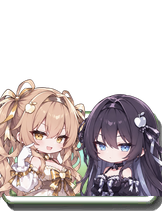
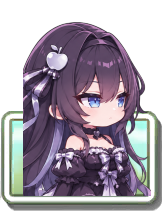
Iris Shooter: new single-character art (Iois) with Spine-style idle, raise/scan/fire sheets, aimed floating cannon and violet laser
Character baked from a bone-rig (LBS) at 12 fps; cannon pre-rendered at 9 aim angles; laser drawn as slanted band.

Claude-Session: https://claude.ai/code/session_01DP6fg3ECMqpTnPv5WHtp6y

diff --git a/src/LawnShared/Lawn/Plant.cs b/src/LawnShared/Lawn/Plant.cs
@@ -110,6 +110,8 @@ public class Plant : GameObject
 
 	public int mIrisFlashCounter;
 
+	public int mIrisEngage;
+
 	public int mTargetZombieID_Save;
 
 	private int mTargetZombieIDSaved;
@@ -328,6 +330,7 @@ public class Plant : GameObject
 		mIrisTickCounter = 0;
 		mIrisUnlocked = false;
 		mIrisFlashCounter = 0;
+		mIrisEngage = 0;
 		mWakeUpCounter = 0;
 		mOnBungeeState = PlantOnBungeeState.NotOnBungee;
 		mImitaterType = SeedType.Peashooter;
@@ -3081,6 +3084,15 @@ public class Plant : GameObject
 		{
 			mIrisFlashCounter--;
 		}
+		// arm raise / lower blend (0..IRIS_ENGAGE_TIME) drives the raise animation and the cannon glide
+		if (mTargetZombieID != null && !mTargetZombieID.IsDeadOrDying())
+		{
+			mIrisEngage = Math.Min(IRIS_ENGAGE_TIME, mIrisEngage + 1);
+		}
+		else
+		{
+			mIrisEngage = Math.Max(0, mIrisEngage - 1);
+		}
 		if (NotOnGround() || mState == PlantState.Dying || mSquished)
 		{
 			return;
@@ -3121,25 +3133,91 @@ public class Plant : GameObject
 		}
 	}
 
-	/// <summary>Battlefield sprite (Content/iris/iris_body.png) with a gentle breathing squash.</summary>
+	public const int IRIS_ENGAGE_TIME = 50;
+
+	private int IrisCounter()
+	{
+		return (IsOnBoard() ? mBoard.mMainCounter : mApp.mAppCounter) + mRow * 53 + mPlantCol * 37;
+	}
+
+	/// <summary>Where the cannon is aiming (board units, plant-relative) and which pre-rendered angle to show.</summary>
+	private void IrisAim(float theHeightOffset, out Vector2 theCenter, out int theIndex, out Vector2 theAimPoint)
+	{
+		float engage = (float)mIrisEngage / (float)IRIS_ENGAGE_TIME;
+		theCenter = IrisArt.CannonCenter(IrisCounter(), engage, theHeightOffset);
+		if (mIrisUnlocked && mIrisTickCounter < 8)
+		{
+			theCenter.X -= 2.5f * (1f - (float)mIrisTickCounter / 8f);     // recoil on each laser tick
+		}
+		Zombie target = mTargetZombieID;
+		theAimPoint = new Vector2(theCenter.X + 100f, theCenter.Y);
+		if (target != null && !target.IsDeadOrDying() && engage > 0f)
+		{
+			TRect rect = target.GetZombieRect();
+			float faceX = (float)rect.mX + (float)rect.mWidth * 0.5f - (float)mX;
+			float faceY = (float)rect.mY + (float)rect.mHeight * 0.22f - (float)mY + theHeightOffset;
+			if (!mIrisUnlocked)
+			{
+				// sweep the scan up and down the zombie, two passes per scan
+				float sweep = 0.5f - 0.5f * (float)Math.Cos((float)mIrisScanCounter * Math.PI * 4.0 / (float)IRIS_SCAN_TIME);
+				faceY = (float)rect.mY - (float)mY + theHeightOffset + (float)rect.mHeight * (0.08f + 0.84f * sweep);
+			}
+			Vector2 face = new Vector2(faceX, faceY);
+			theAimPoint = Vector2.Lerp(theAimPoint, face, engage);
+		}
+		float deg = MathHelper.ToDegrees((float)Math.Atan2(theAimPoint.Y - theCenter.Y, Math.Max(1f, theAimPoint.X - theCenter.X)));
+		theIndex = IrisArt.AngleIndex(deg);
+	}
+
+	/// <summary>Iois (pre-baked rig) + floating apple cannon.</summary>
 	public void DrawIrisShooterBody(Graphics g, float theOffsetX, float theOffsetY)
 	{
-		int counter = (IsOnBoard() ? mBoard.mMainCounter : mApp.mAppCounter) + mRow * 53 + mPlantCol * 37;
-		float breath = (float)Math.Sin((float)counter * 0.045f) * 0.012f;
+		int counter = IrisCounter();
+		int f12 = counter * IrisArt.FPS / 100;
+		Image sheet;
+		int frame;
+		if (mIrisEngage <= 0)
+		{
+			sheet = IrisArt.Idle;
+			frame = f12 % IrisArt.IDLE_FRAMES;
+		}
+		else if (mIrisEngage < IRIS_ENGAGE_TIME)
+		{
+			sheet = IrisArt.Raise;
+			frame = Math.Clamp(mIrisEngage * IrisArt.RAISE_FRAMES / IRIS_ENGAGE_TIME, 0, IrisArt.RAISE_FRAMES - 1);
+		}
+		else if (mIrisUnlocked && mIrisFlashCounter > 26 && IrisArt.Wink != null)
+		{
+			sheet = IrisArt.Wink;
+			frame = 0;
+		}
+		else
+		{
+			sheet = mIrisUnlocked ? IrisArt.FireLoop : IrisArt.ScanLoop;
+			frame = f12 % IrisArt.LOOP_FRAMES;
+		}
 		bool colorize = g.GetColorizeImages();
 		if (mEatenFlashCountdown > 0 || mBeghouledFlashCountdown > 0)
 		{
 			g.SetColorizeImages(colorizeImages: true);
 			g.SetColor(new SexyColor(255, 200, 200, 255));
 		}
-		IrisArt.DrawBody(g, theOffsetX * Constants.S, theOffsetY * Constants.S, 1f, breath);
+		float ox = theOffsetX * Constants.S;
+		float oy = theOffsetY * Constants.S;
+		IrisArt.DrawCharacter(g, sheet, frame, ox, oy, 1f);
+		IrisAim(0f, out Vector2 center, out int index, out _);
+		IrisArt.DrawCannon(g, center, index, ox, oy);
 		g.SetColor(new SexyColor(255, 255, 255, 255));
 		g.SetColorizeImages(colorize);
 	}
 
-	/// <summary>Scan fan + red lock while scanning; golden laser, muzzle, hit spark and green lock once unlocked.</summary>
+	/// <summary>Red scan fan + lock while scanning; violet laser from the cannon, hit spark and green lock once unlocked.</summary>
 	public void DrawIrisShooterEffectsArt(Graphics g, Zombie target)
 	{
+		if (mIrisEngage < IRIS_ENGAGE_TIME)
+		{
+			return;
+		}
 		float s = Constants.S;
 		float heightOffset = PlantDrawHeightOffset(mBoard, this, mSeedType, mPlantCol, mRow);
 		TRect rect = target.GetZombieRect();
@@ -3149,42 +3227,32 @@ public class Plant : GameObject
 		int counter = mBoard.mMainCounter;
 		float pulse = 0.5f + 0.5f * (float)Math.Sin((float)counter * 0.3f);
 		bool colorize = g.GetColorizeImages();
+		IrisAim(heightOffset, out Vector2 center, out int index, out Vector2 aim);
+		Vector2 mz = IrisArt.MuzzleAt(center, index) * s;
+		Vector2 aimPx = aim * s;
 		if (!mIrisUnlocked)
 		{
-			Vector2 so = IrisArt.Anchor(IrisArt.ScanOrigin, heightOffset) * s;
-			float len = faceCX - so.X;
-			if (len > 4f && IrisArt.Scan != null)
+			if (IrisArt.Scan != null && aimPx.X - mz.X > 4f)
 			{
-				float h = Math.Max(side * 1.3f, Math.Abs(faceCY - so.Y) * 2f + side * 0.8f);
+				float h = side * 1.1f;
 				g.SetColorizeImages(colorizeImages: true);
 				g.SetColor(new SexyColor(255, 255, 255, (int)(150f + 60f * pulse)));
-				g.DrawImage(IrisArt.Scan, new TRect((int)(so.X - h * 0.025f), (int)(so.Y - h * 0.52f), (int)(len + side * 0.5f), (int)h), new TRect(0, 0, IrisArt.Scan.mWidth, IrisArt.Scan.mHeight));
+				float fanH = Math.Abs(aimPx.Y - mz.Y) * 2f + h;
+				g.DrawImage(IrisArt.Scan, new TRect((int)mz.X, (int)(mz.Y - fanH * 0.52f), (int)(aimPx.X - mz.X + side * 0.3f), (int)fanH), new TRect(0, 0, IrisArt.Scan.mWidth, IrisArt.Scan.mHeight));
+				g.SetColor(new SexyColor(255, 60, 80, 220));
+				g.FillRect((int)(faceCX - side * 0.6f), (int)aimPx.Y, (int)(side * 1.2f), (int)Math.Max(1f, 1.5f * s));
 			}
 			IrisArt.DrawCentered(g, IrisArt.LockRed, faceCX, faceCY, side, side, 230);
-			int scanTime = (IrisFaceHidden(target) ? IRIS_SCAN_TIME_OBSTRUCTED : IRIS_SCAN_TIME);
-			float progress = Math.Clamp((float)mIrisScanCounter / (float)scanTime, 0f, 1f);
-			g.SetColor(new SexyColor(255, 140, 140, 220));
-			g.FillRect((int)(faceCX - side * 0.4f), (int)(faceCY - side * 0.4f + side * 0.8f * progress), (int)(side * 0.8f), (int)Math.Max(1f, 1.5f * s));
 		}
 		else
 		{
-			Vector2 lo = IrisArt.Anchor(IrisArt.LaserOrigin, heightOffset) * s;
-			float hitX = ((float)rect.mX + (float)rect.mWidth * 0.3f - (float)mX) * s;
-			float len = hitX - lo.X;
-			if (len > 0f && IrisArt.Beam != null)
-			{
-				float bh = (16f + 3f * pulse) * s;
-				g.SetColorizeImages(colorizeImages: true);
-				g.SetColor(new SexyColor(255, 255, 255, 255));
-				g.DrawImage(IrisArt.Beam, new TRect((int)lo.X, (int)(lo.Y - bh / 2f), (int)len, (int)bh), new TRect(0, 0, IrisArt.Beam.mWidth, IrisArt.Beam.mHeight));
-			}
-			float m = (26f + 4f * pulse) * s;
-			IrisArt.DrawCentered(g, IrisArt.Muzzle, lo.X, lo.Y, m * 1.3f, m, 255);
-			if (len > 0f)
-			{
-				float hs = (24f + 8f * (float)((counter / 3) % 2)) * s;
-				IrisArt.DrawCentered(g, IrisArt.Hit, hitX, lo.Y, hs * 1.4f, hs, 255);
-			}
+			Vector2 hit = new Vector2(faceCX - side * 0.15f, aimPx.Y);
+			float bh = (14f + 3f * pulse) * s;
+			IrisArt.DrawBand(g, IrisArt.Beam, mz, hit, bh, 255);
+			float m = (22f + 4f * pulse) * s;
+			IrisArt.DrawCentered(g, IrisArt.Muzzle, mz.X, mz.Y, m * 1.3f, m, 255);
+			float hs = (22f + 8f * (float)((counter / 3) % 2)) * s;
+			IrisArt.DrawCentered(g, IrisArt.Hit, hit.X, hit.Y, hs * 1.4f, hs, 255);
 			IrisArt.DrawCentered(g, IrisArt.LockGreen, faceCX, faceCY, side, side, 240);
 			if (mIrisFlashCounter > 0)
 			{
@@ -4312,7 +4380,9 @@ public class Plant : GameObject
 		}
 		else if (seedType == SeedType.IrisShooter && IrisArt.Ready)
 		{
-			IrisArt.DrawBody(g, thePosX - 40f * Constants.S * g.mScaleX, thePosY - (8f + 56f * Constants.S) * g.mScaleY, g.mScaleX, 0f);
+			float irisOx = thePosX - 40f * Constants.S * g.mScaleX;
+			float irisOy = thePosY - (8f + 56f * Constants.S) * g.mScaleY;
+			IrisArt.DrawCharacter(g, IrisArt.Idle, 0, irisOx, irisOy, g.mScaleX);
 		}
 		else
 		{

diff --git a/src/LawnShared/Lawn/IrisArt.cs b/src/LawnShared/Lawn/IrisArt.cs
@@ -7,25 +7,61 @@ using Sexy;
 namespace Lawn;
 
 /// <summary>
-/// iOS-port original plant art for the Iris Shooter, loaded from raw PNGs in Content/iris on first use.
+/// iOS-port original plant art (Iris Shooter = "Iois" + floating apple cannon), loaded from raw PNGs in Content/iris.
+/// The character is pre-baked from a Spine-style rig into sprite sheets (idle / raise / scan / fire / wink, 12 fps);
+/// the cannon and all laser effects are drawn live so they can aim at the target.
 /// Every image is optional: callers fall back to the prototype look when one is missing.
 /// </summary>
 public static class IrisArt
 {
-	// Battlefield sprite layout (iris_body.png is 420x420): drawn IRIS_SIZE board units square,
-	// feet on board y = plant y + IRIS_FEET_Y, centred on the cell.
-	public const float SIZE = 100f;
+	// ---- character sheets (frame 185x260 px, 8 columns) ----
+	public const int FRAME_W = 185;
 
-	public const float FEET_Y = 72f;
+	public const int FRAME_H = 260;
 
-	public const float FEET_IN_IMAGE = 414f / 420f;
+	public const int COLS = 8;
 
-	// Hair-ornament anchors inside the sprite, as fractions of the image.
-	public static readonly Vector2 LaserOrigin = new Vector2(296f / 420f, 108f / 420f);
+	public const int FPS = 12;
 
-	public static readonly Vector2 ScanOrigin = new Vector2(148f / 420f, 74f / 420f);
+	public const int IDLE_FRAMES = 31;
 
-	public static Image Body;
+	public const int RAISE_FRAMES = 6;
+
+	public const int LOOP_FRAMES = 30;
+
+	private const float FEET_IN_FRAME_X = 77.4f;
+
+	private const float FEET_IN_FRAME_Y = 257.9f;
+
+	/// <summary>Character height in board units and where her feet stand inside the 80-wide cell.</summary>
+	public const float HEIGHT = 102f;
+
+	public const float FEET_X = 38f;
+
+	public const float FEET_Y = 78f;
+
+	// ---- cannon sheet: 9 aim angles (-20..+20 deg, 5 deg steps), 200x200 frames ----
+	public const int CANNON_FRAME = 200;
+
+	public const int CANNON_ANGLES = 9;
+
+	public const float CANNON_SIZE = 44f;
+
+	private static readonly float[] sMuzzleX = { 166.1f, 168.2f, 169.9f, 171.0f, 171.6f, 171.6f, 171.1f, 170.0f, 168.4f };
+
+	private static readonly float[] sMuzzleY = { 72.3f, 78.2f, 84.2f, 90.4f, 96.6f, 102.8f, 109.1f, 115.2f, 121.3f };
+
+	public static Image Idle;
+
+	public static Image Raise;
+
+	public static Image ScanLoop;
+
+	public static Image FireLoop;
+
+	public static Image Wink;
+
+	public static Image Cannon;
 
 	public static Image Card;
 
@@ -50,7 +86,7 @@ public static class IrisArt
 		get
 		{
 			EnsureLoaded();
-			return Body != null;
+			return Idle != null && Cannon != null;
 		}
 	}
 
@@ -61,11 +97,16 @@ public static class IrisArt
 			return;
 		}
 		sTried = true;
-		Body = Load("iris_body");
+		Idle = Load("iois_idle");
+		Raise = Load("iois_raise");
+		ScanLoop = Load("iois_scan");
+		FireLoop = Load("iois_fire");
+		Wink = Load("iois_wink");
+		Cannon = Load("iois_cannon");
 		Card = Load("iris_card");
-		Beam = Load("fx_beam");
-		Muzzle = Load("fx_muzzle");
-		Hit = Load("fx_hit");
+		Beam = Load("fxv_beam");
+		Muzzle = Load("fxv_muzzle");
+		Hit = Load("fxv_hit");
 		Scan = Load("fx_scan");
 		LockRed = Load("fx_lockred");
 		LockGreen = Load("fx_lockgreen");
@@ -87,24 +128,48 @@ public static class IrisArt
 		}
 	}
 
-	/// <summary>Draws the battlefield sprite with the plant's board origin at (theOriginX, theOriginY) in screen pixels.</summary>
-	public static void DrawBody(Graphics g, float theOriginX, float theOriginY, float theScale, float theBreath)
+	/// <summary>Draws one character frame; (theOriginX, theOriginY) = plant board origin in screen pixels.</summary>
+	public static void DrawCharacter(Graphics g, Image theSheet, int theFrame, float theOriginX, float theOriginY, float theScale)
 	{
-		float s = Constants.S * theScale;
-		float w = SIZE * s;
-		float h = SIZE * s * (1f + theBreath);
-		float feetY = theOriginY + FEET_Y * s;
-		float top = feetY - h * FEET_IN_IMAGE;
-		float left = theOriginX + (40f - SIZE / 2f) * s;
-		g.DrawImage(Body, new TRect((int)left, (int)top, (int)w, (int)h), new TRect(0, 0, Body.mWidth, Body.mHeight));
+		if (theSheet == null)
+		{
+			theSheet = Idle;
+			theFrame = 0;
+		}
+		float bu = HEIGHT / FRAME_H * Constants.S * theScale;
+		float left = theOriginX + FEET_X * Constants.S * theScale - FEET_IN_FRAME_X * bu;
+		float top = theOriginY + FEET_Y * Constants.S * theScale - FEET_IN_FRAME_Y * bu;
+		int cols = Math.Min(COLS, theSheet.mWidth / FRAME_W);
+		TRect src = new TRect(theFrame % cols * FRAME_W, theFrame / cols * FRAME_H, FRAME_W, FRAME_H);
+		g.DrawImage(theSheet, new TRect((int)left, (int)top, (int)(FRAME_W * bu), (int)(FRAME_H * bu)), src);
 	}
 
-	/// <summary>Anchor of a hair ornament in board units relative to the plant origin.</summary>
-	public static Vector2 Anchor(Vector2 theFraction, float theHeightOffset)
+	/// <summary>Cannon centre in board units relative to the plant origin.</summary>
+	public static Vector2 CannonCenter(int theCounter, float theEngage, float theHeightOffset)
 	{
-		float left = 40f - SIZE / 2f;
-		float top = FEET_Y - SIZE * FEET_IN_IMAGE;
-		return new Vector2(left + theFraction.X * SIZE, theHeightOffset + top + theFraction.Y * SIZE);
+		float bob = 2.5f * (float)Math.Sin(theCounter * 2.0 * Math.PI / 210.0);
+		return new Vector2(FEET_X + 34f + 9f * theEngage, FEET_Y - 70f + bob + theHeightOffset);
+	}
+
+	public static int AngleIndex(float theDegrees)
+	{
+		return Math.Clamp((int)Math.Round((theDegrees + 20f) / 5f), 0, CANNON_ANGLES - 1);
+	}
+
+	/// <summary>Muzzle position (board units, plant-relative) for a cannon at theCenter with aim frame theIndex.</summary>
+	public static Vector2 MuzzleAt(Vector2 theCenter, int theIndex)
+	{
+		float k = CANNON_SIZE / CANNON_FRAME;
+		return new Vector2(theCenter.X + (sMuzzleX[theIndex] - CANNON_FRAME / 2f) * k, theCenter.Y + (sMuzzleY[theIndex] - CANNON_FRAME / 2f) * k);
+	}
+
+	public static void DrawCannon(Graphics g, Vector2 theCenter, int theIndex, float theOriginX, float theOriginY)
+	{
+		float s = Constants.S;
+		float size = CANNON_SIZE * s;
+		float x = theOriginX + theCenter.X * s - size / 2f;
+		float y = theOriginY + theCenter.Y * s - size / 2f;
+		g.DrawImage(Cannon, new TRect((int)x, (int)y, (int)size, (int)size), new TRect(theIndex * CANNON_FRAME, 0, CANNON_FRAME, CANNON_FRAME));
 	}
 
 	/// <summary>Draws an image centred on (x, y) at the given size, tinted by alpha.</summary>
@@ -117,5 +182,31 @@ public static class IrisArt
 		g.SetColorizeImages(colorizeImages: true);
 		g.SetColor(new SexyColor(255, 255, 255, Math.Clamp(theAlpha, 0, 255)));
 		g.DrawImage(theImage, new TRect((int)(x - theWidth / 2f), (int)(y - theHeight / 2f), (int)theWidth, (int)theHeight), new TRect(0, 0, theImage.mWidth, theImage.mHeight));
+	}
+
+	/// <summary>A straight band from p0 to p1 drawn as short horizontal slices of a horizontally-uniform strip (no rotation needed).</summary>
+	public static void DrawBand(Graphics g, Image theStrip, Vector2 p0, Vector2 p1, float theThickness, int theAlpha)
+	{
+		if (theStrip == null)
+		{
+			return;
+		}
+		float dx = p1.X - p0.X;
+		float dy = p1.Y - p0.Y;
+		if (dx < 1f)
+		{
+			return;
+		}
+		int steps = Math.Max(1, (int)(Math.Abs(dy) / 1.5f));
+		steps = Math.Min(steps, 120);
+		g.SetColorizeImages(colorizeImages: true);
+		g.SetColor(new SexyColor(255, 255, 255, Math.Clamp(theAlpha, 0, 255)));
+		float sliceW = dx / steps;
+		for (int i = 0; i < steps; i++)
+		{
+			float x = p0.X + sliceW * i;
+			float y = p0.Y + dy * (i + 0.5f) / steps;
+			g.DrawImage(theStrip, new TRect((int)x, (int)(y - theThickness / 2f), (int)Math.Ceiling(sliceW) + 1, (int)theThickness), new TRect(0, 0, theStrip.mWidth, theStrip.mHeight));
+		}
 	}
 }
